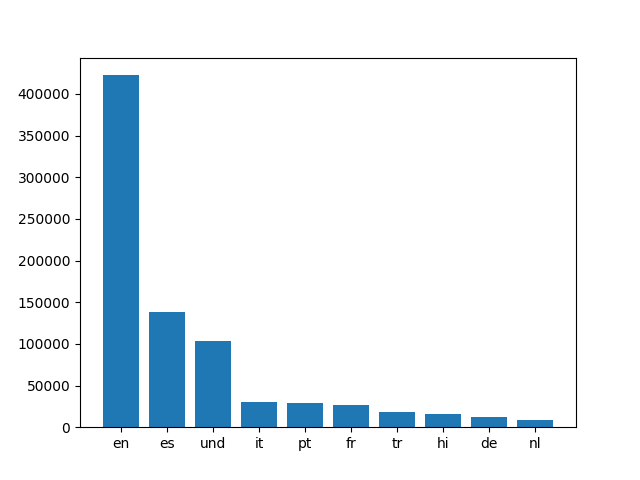
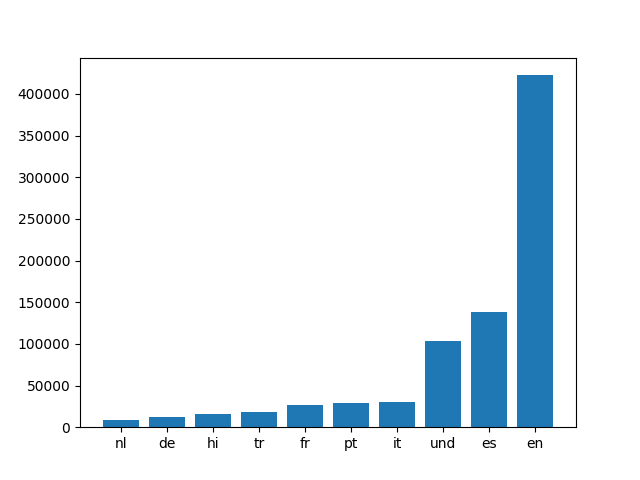
fix #coronavirus lang plots

diff --git a/src/visualize.py b/src/visualize.py
@@ -38,12 +38,8 @@ labels = [item[0] for item in items[:10]]
 values = [item[1] for item in items[:10]]
 df['labels'] = labels
 df['values'] = values
-
-df_sorted = df.sort_values('values')
 '''
+df_sorted = df.sort_values('values')
 
-labels = [item[0] for item in items[:10]]
-values = [item[1] for item in items[:10]]
-
-plt.bar([item[0] for item in items[:10]], [item[1] for item in items[:10]])
+plt.bar('labels', 'values', data=df_sorted)
 plt.savefig(f'{args.key}_{args.input_path[8:]}.png')
